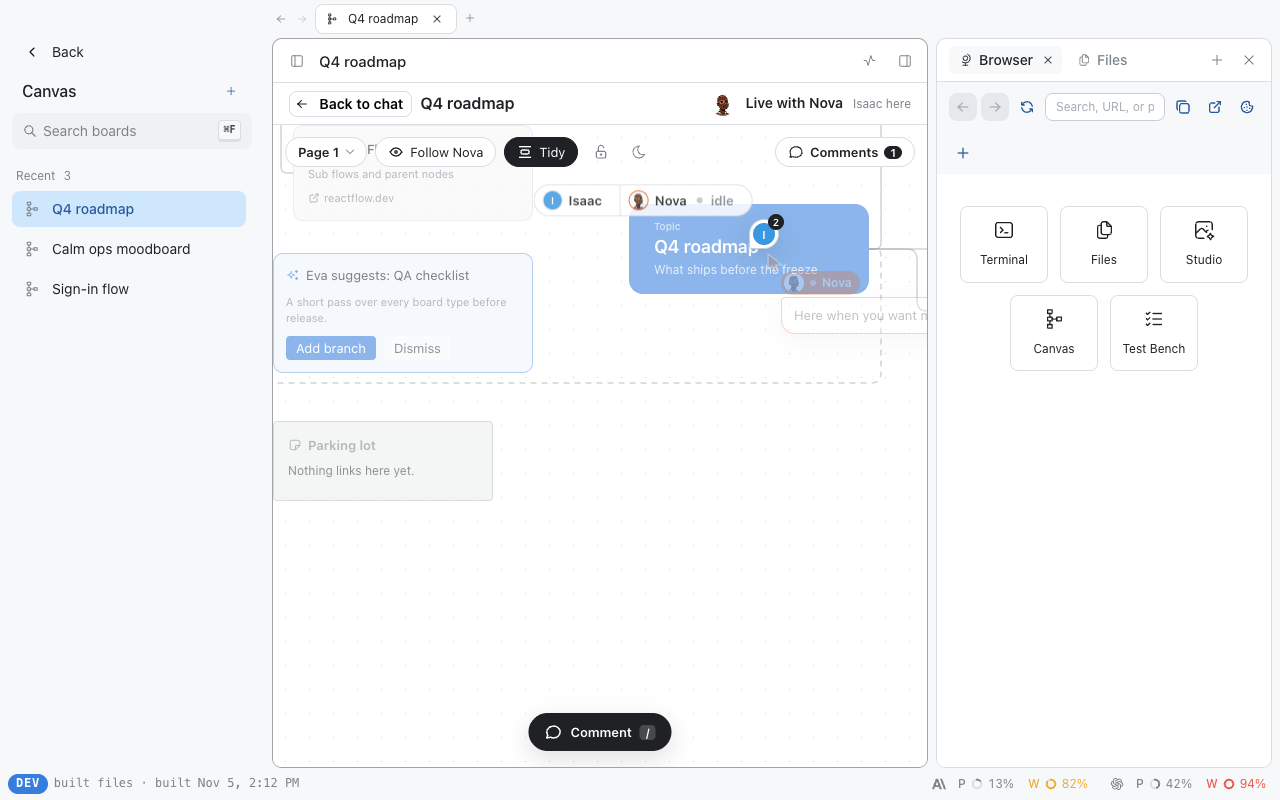
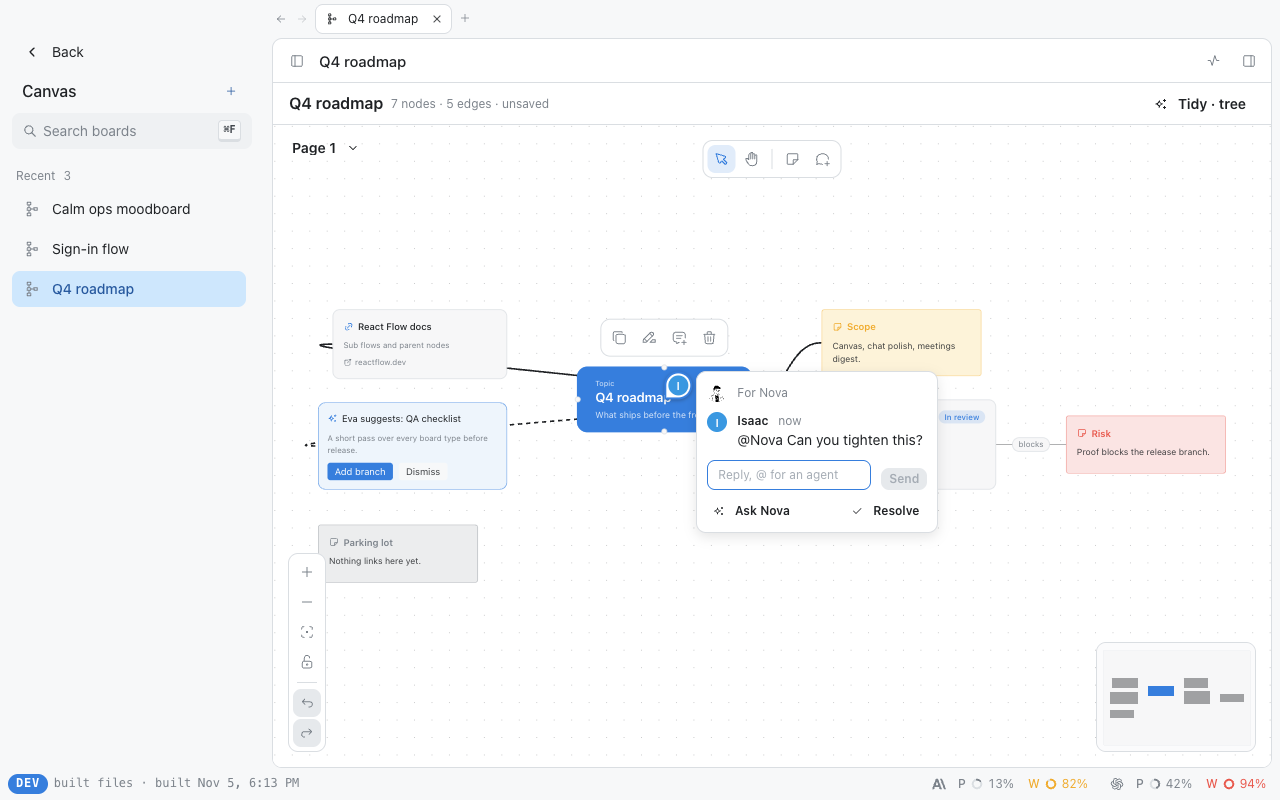
e2e(canvas-comments): the 'Ask Nova' button is gone with @mentions; the spec seeds Nova in the registry, picks her from the @ menu, and checks the thread is hers, the room takes over and carries the open thread, and her answer lands in it

diff --git a/apps/desktop/e2e/canvas-comments.spec.ts b/apps/desktop/e2e/canvas-comments.spec.ts
@@ -1,23 +1,33 @@
 import type { Page } from '@playwright/test'
 import * as fs from 'node:fs'
+import * as os from 'node:os'
 import * as path from 'node:path'
 import { test as base, expect } from './fixtures'
-import { REPO_ROOT } from './helpers/paths'
+import { EVA_FIXTURE_ROOT, REPO_ROOT } from './helpers/paths'
 import { startThrowawayHost, type ThrowawayHost } from './helpers/throwaway-host'
 
 // '/' and the Comment button on both Canvas surfaces. The desktop Canvas page with no live room
-// saves pins and threads into the board file (Ask Nova starts a room on a throwaway real host and
-// hands the thread over); in a live room the host's page takes '/' wherever focus sits and shows
-// the Comment button with its shortcut hint. The host is the real room page, board file and canvas
-// service with a scripted mind (apps/linux test/canvas-throwaway-host.ts), never the live one.
+// saves pins and threads into the board file (a comment that names @Nova starts a room on a
+// throwaway real host and hands the thread over); in a live room the host's page takes '/' wherever
+// focus sits and shows the Comment button with its shortcut hint. The host is the real room page,
+// board file and canvas service with a scripted mind (apps/linux test/canvas-throwaway-host.ts),
+// never the live one. The registry (what `@` lists) holds Nova.
 const PROOF = path.join(REPO_ROOT, 'proof', 'slash-comment')
 let host: ThrowawayHost
 
 const test = base.extend({
   launchEnv: async ({}, use) => {
+    const evaRoot = fs.mkdtempSync(path.join(os.tmpdir(), 'cc-eva-'))
+    fs.cpSync(EVA_FIXTURE_ROOT, evaRoot, { recursive: true })
+    fs.mkdirSync(path.join(evaRoot, '.omp/assistant'), { recursive: true })
+    fs.writeFileSync(
+      path.join(evaRoot, '.omp/assistant/agents.json'),
+      JSON.stringify({ agents: [{ id: 'nova', title: 'Nova', scope: 'Personal' }] }),
+    )
     host = await startThrowawayHost()
-    await use(host.env)
+    await use({ ...host.env, EVAOS_EVA_ROOT: evaRoot })
     await host.stop()
+    fs.rmSync(evaRoot, { recursive: true, force: true })
   },
 })
 test.use({ startOnChat: false, colorScheme: 'dark' })
@@ -30,6 +40,7 @@ const board = (): {
     x: number
     y: number
     resolved?: boolean
+    assignee?: string
     messages: Array<{ kind: string; name: string; text: string }>
   }>
   nodes: Array<{ id: string }>
@@ -141,27 +152,32 @@ test('the Canvas page with no live room: / drops a pin on the selected card, on 
   await expect(shell.locator(sel('canvas-pin'))).toHaveCount(1)
 })
 
-test('Ask Nova starts a live session on the board and hands her the comment, answered in its thread; / works with focus anywhere in the room', async ({
+test('a comment that names @Nova starts a live session on the board and hands her the comment, answered in its thread; / works with focus anywhere in the room', async ({
   shell,
 }) => {
   await openBoard(shell)
   await shell.locator('.react-flow__node').first().click()
   await shell.keyboard.press('/')
-  await shell.locator(sel('canvas-thread-new-input')).fill('Can you tighten this?')
+  const input = shell.locator(sel('canvas-thread-new-input'))
+  // `@` lists the registry's assistants; Enter picks one and the comment goes on after it.
+  await input.pressSequentially('@No')
+  await expect(shell.locator(sel('canvas-mention-option'))).toHaveText(['NovaPersonal'])
+  await shot(shell, 'after-3-mention-nova.png')
   await shell.keyboard.press('Enter')
-  await expect(shell.locator(sel('canvas-thread-ask'))).toHaveText('Ask Nova')
-  await shot(shell, 'after-3-ask-nova.png')
-  await shell.locator(sel('canvas-thread-ask')).click()
+  await expect(input).toHaveValue('@Nova ')
+  await input.pressSequentially('Can you tighten this?')
+  await shell.keyboard.press('Enter')
 
-  // The board gives way to the room, which holds the thread; Nova's answer lands in it.
+  // The thread is Nova's; the board gives way to the room, which holds it; her answer lands in it.
+  await expect.poll(() => board().threads?.[0]?.assignee).toBe('nova')
   await expect(shell.locator(sel('canvas-live'))).toHaveAttribute('data-slug', 'mind-map')
   const room = shell.frameLocator(sel('canvas-live-frame'))
   await expect(room.locator('.cv-fab')).toBeVisible()
   await expect(room.locator('.cv-fab')).toHaveAttribute('title', 'Comment (press /)')
   await expect
     .poll(() => board().threads![0]!.messages.map((m) => `${m.name}: ${m.text}`))
-    .toEqual(['Isaac: Can you tighten this?', 'Nova: Seen. On it.'])
-  await room.locator('.cv-pin').first().click()
+    .toEqual(['Isaac: @Nova Can you tighten this?', 'Nova: Seen. On it.'])
+  // The handoff carries the open thread into the room: it shows there without a click.
   await expect(room.locator(sel('canvas-thread'))).toContainText('Seen. On it.')
   await shot(shell, 'after-4-room-thread-answered.png')
 
